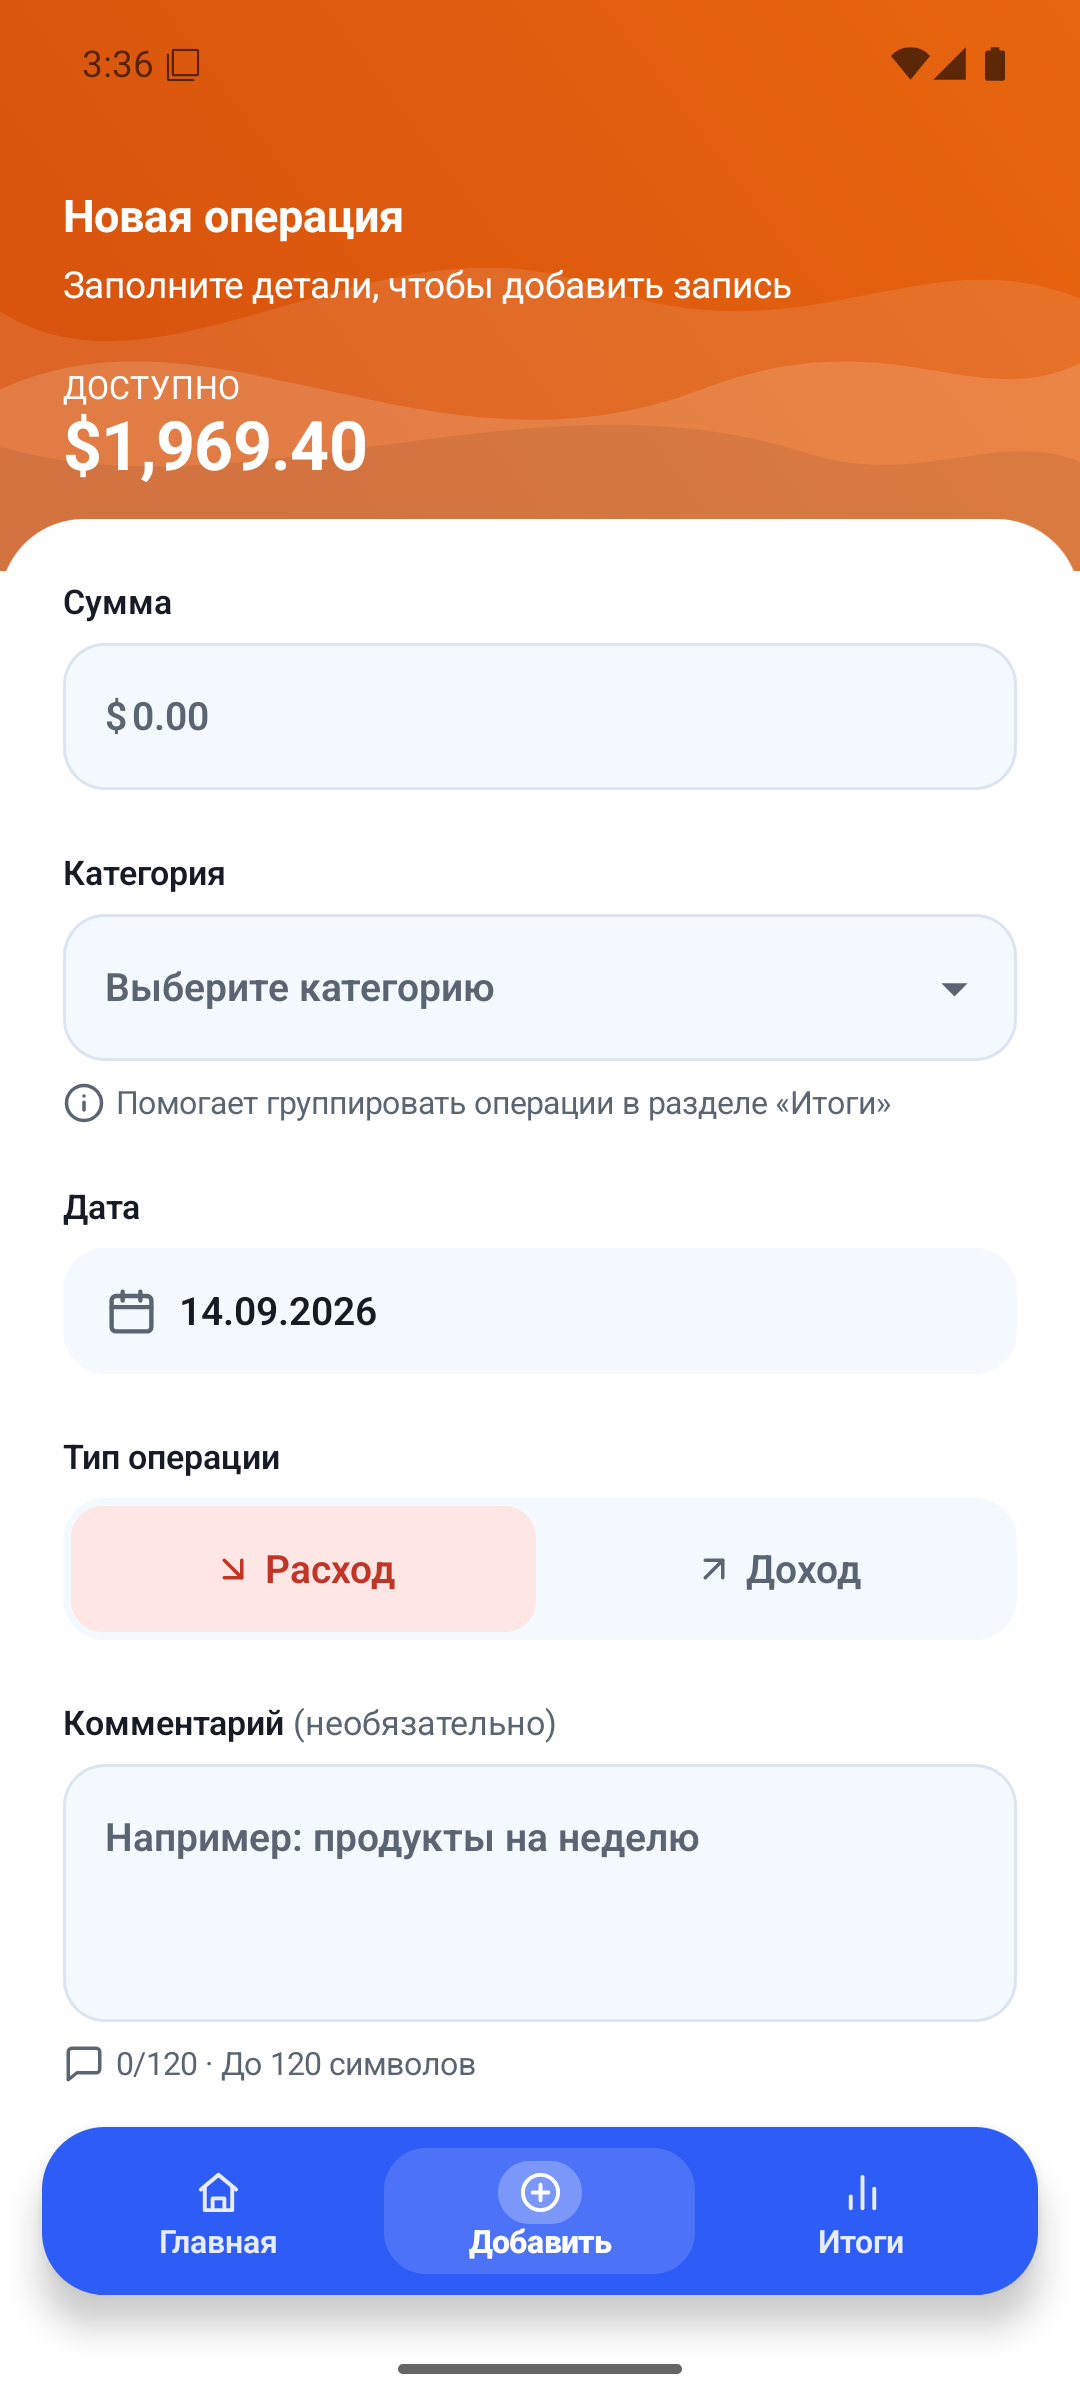
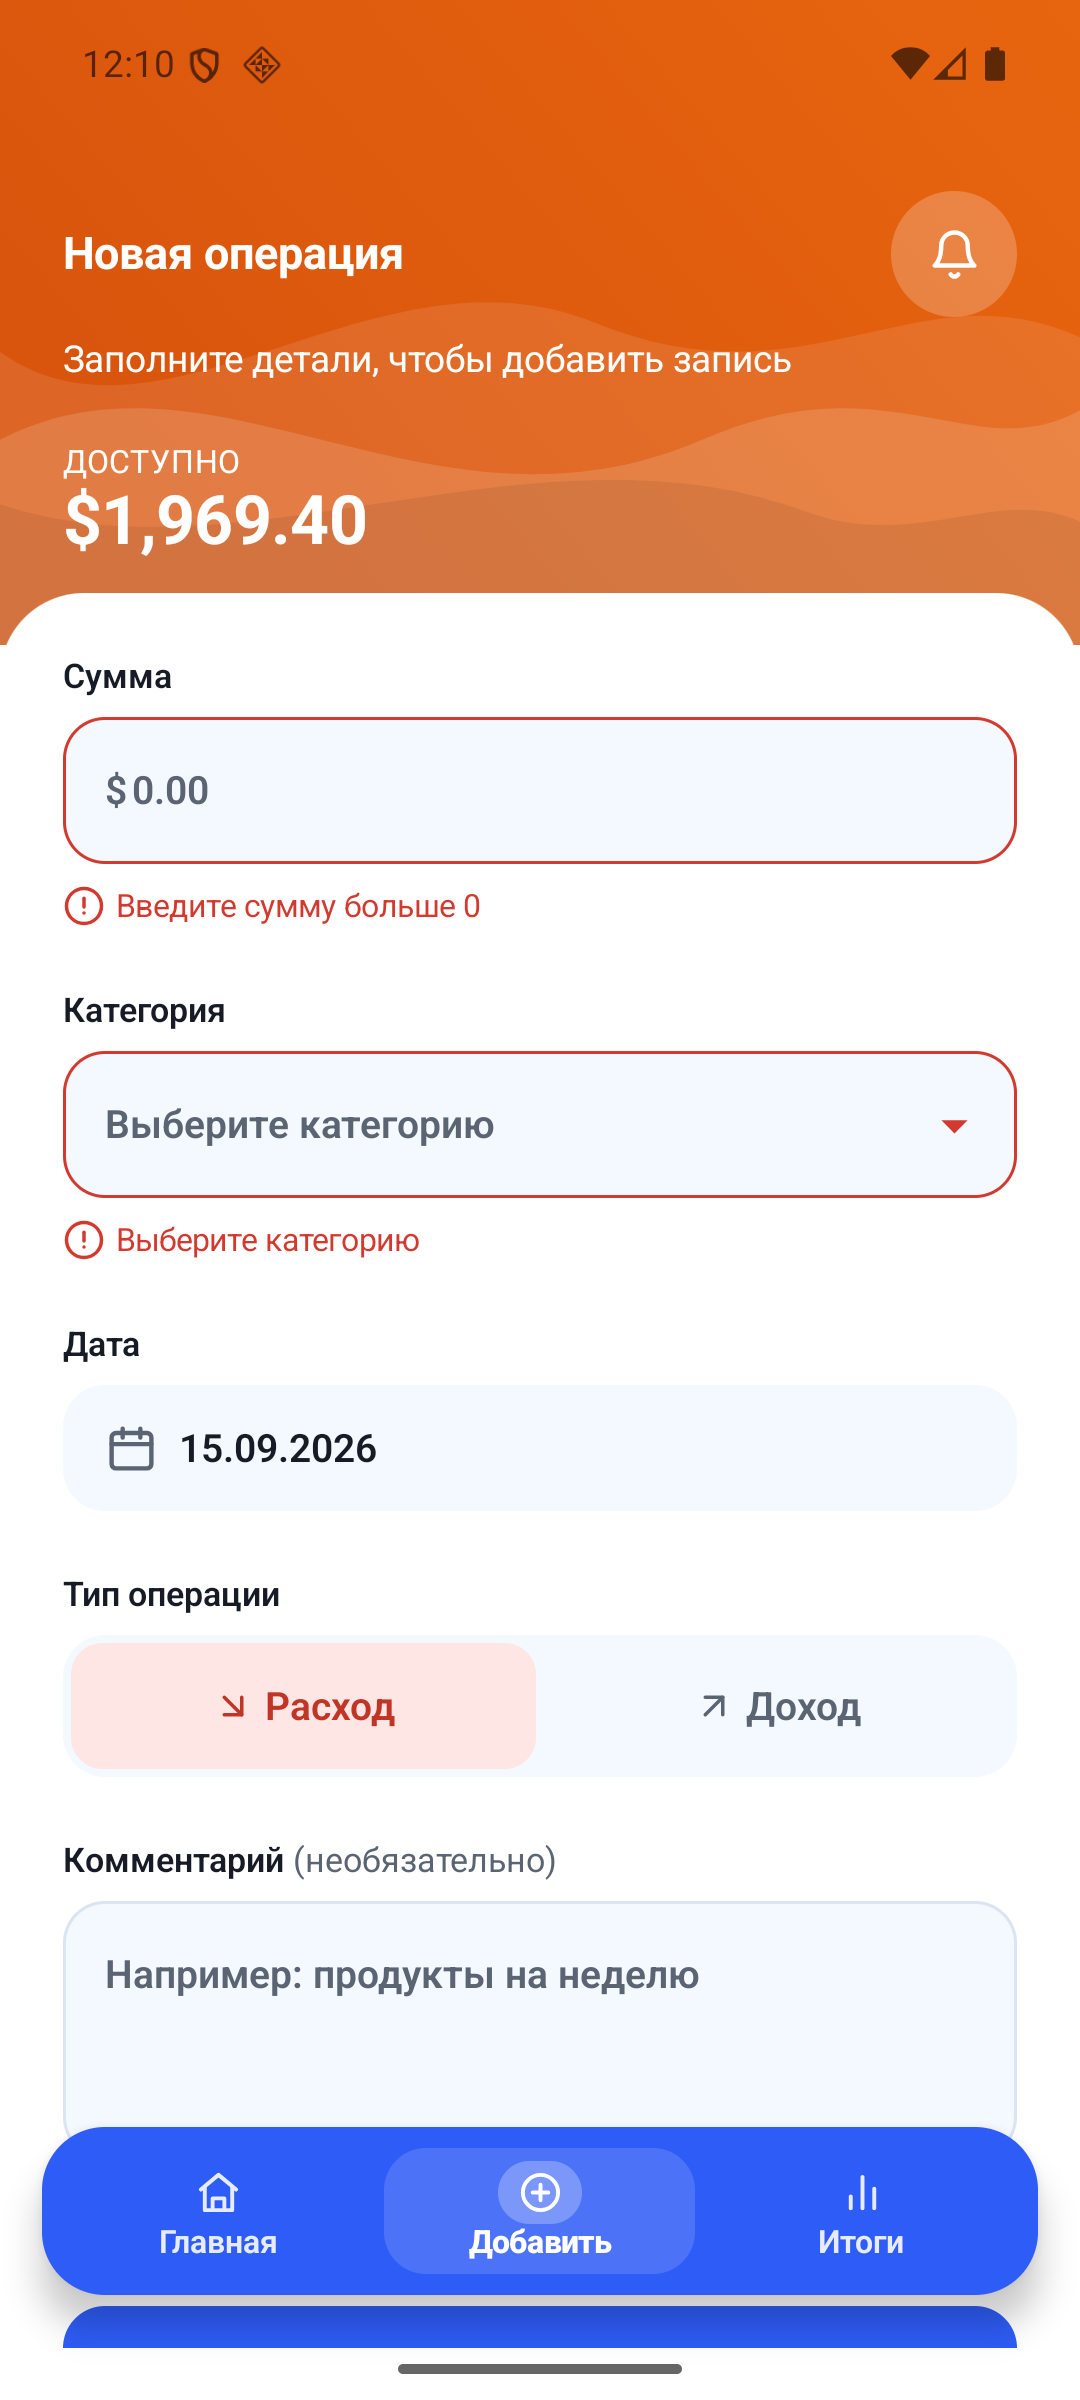
feat(ui): notifications button in the header
Кнопка-колокольчик из макета возвращена на все три экрана: круглая, 48dp,
на полупрозрачной белой подложке справа от заголовка. По нажатию открывается
тот же попап «Новых уведомлений нет», что был нарисован в макете.

Функциональности за ней пока нет — приложение офлайновое, без backend и push.

diff --git a/app/src/main/java/com/fintrack/app/ui/components/NotificationsButton.kt b/app/src/main/java/com/fintrack/app/ui/components/NotificationsButton.kt
@@ -1,0 +1,89 @@
+package com.fintrack.app.ui.components
+
+import androidx.compose.foundation.background
+import androidx.compose.foundation.clickable
+import androidx.compose.foundation.layout.Box
+import androidx.compose.foundation.layout.Column
+import androidx.compose.foundation.layout.padding
+import androidx.compose.foundation.layout.size
+import androidx.compose.foundation.layout.width
+import androidx.compose.material3.DropdownMenu
+import androidx.compose.material3.Icon
+import androidx.compose.material3.MaterialTheme
+import androidx.compose.material3.Text
+import androidx.compose.runtime.Composable
+import androidx.compose.runtime.getValue
+import androidx.compose.runtime.mutableStateOf
+import androidx.compose.runtime.remember
+import androidx.compose.runtime.setValue
+import androidx.compose.ui.Alignment
+import androidx.compose.ui.Modifier
+import androidx.compose.ui.draw.clip
+import androidx.compose.ui.graphics.Color
+import androidx.compose.ui.res.painterResource
+import androidx.compose.ui.res.stringResource
+import androidx.compose.ui.semantics.Role
+import androidx.compose.ui.unit.dp
+import com.fintrack.app.R
+import com.fintrack.app.ui.theme.FinTheme
+import com.fintrack.app.ui.theme.PillShape
+import com.fintrack.app.ui.theme.Spacing
+
+/**
+ * Круглая кнопка-колокольчик в шапке, как в макете.
+ *
+ * Функциональности за ней пока нет: приложение офлайновое, без backend и push,
+ * поэтому по нажатию открывается тот же попап «Новых уведомлений нет», что был
+ * нарисован в макете.
+ */
+@Composable
+fun NotificationsButton(modifier: Modifier = Modifier) {
+    var expanded by remember { mutableStateOf(false) }
+    val colors = FinTheme.colors
+
+    Box(modifier) {
+        Box(
+            modifier = Modifier
+                .size(Spacing.minTouch)
+                .clip(PillShape)
+                .background(Color.White.copy(alpha = 0.22f))
+                .clickable(
+                    role = Role.Button,
+                    onClickLabel = stringResource(R.string.notifications_open),
+                    onClick = { expanded = true },
+                ),
+            contentAlignment = Alignment.Center,
+        ) {
+            Icon(
+                painter = painterResource(R.drawable.ic_bell),
+                contentDescription = stringResource(R.string.notifications_open),
+                tint = colors.textInverse,
+                modifier = Modifier.size(20.dp),
+            )
+        }
+
+        DropdownMenu(
+            expanded = expanded,
+            onDismissRequest = { expanded = false },
+            containerColor = colors.surface,
+        ) {
+            Column(
+                modifier = Modifier
+                    .width(220.dp)
+                    .padding(Spacing.x3),
+            ) {
+                Text(
+                    text = stringResource(R.string.notifications_empty_title),
+                    style = MaterialTheme.typography.titleSmall,
+                    color = colors.textPrimary,
+                )
+                Text(
+                    text = stringResource(R.string.notifications_empty_subtitle),
+                    style = MaterialTheme.typography.bodySmall,
+                    color = colors.textSecondary,
+                    modifier = Modifier.padding(top = Spacing.x1),
+                )
+            }
+        }
+    }
+}

diff --git a/app/src/main/java/com/fintrack/app/ui/screens/add/AddTransactionScreen.kt b/app/src/main/java/com/fintrack/app/ui/screens/add/AddTransactionScreen.kt
@@ -55,6 +55,7 @@ import com.fintrack.app.domain.model.TransactionType
 import com.fintrack.app.domain.usecase.ValidateTransactionInput
 import com.fintrack.app.ui.components.CategoryIcons
 import com.fintrack.app.ui.components.FinTrackScaffold
+import com.fintrack.app.ui.components.NotificationsButton
 import com.fintrack.app.ui.components.PrimaryButton
 import com.fintrack.app.ui.navigation.LocalContentBottomPadding
 import com.fintrack.app.ui.theme.BalanceLabelStyle
@@ -78,11 +79,19 @@ fun AddTransactionScreen(
 
     FinTrackScaffold(
         header = {
-            Text(
-                text = stringResource(R.string.add_title),
-                style = MaterialTheme.typography.titleLarge,
-                color = colors.textInverse,
-            )
+            Row(
+                modifier = Modifier.fillMaxWidth(),
+                verticalAlignment = Alignment.CenterVertically,
+                horizontalArrangement = Arrangement.SpaceBetween,
+            ) {
+                Text(
+                    text = stringResource(R.string.add_title),
+                    style = MaterialTheme.typography.titleLarge,
+                    color = colors.textInverse,
+                    modifier = Modifier.weight(1f, fill = false),
+                )
+                NotificationsButton()
+            }
             Text(
                 text = stringResource(R.string.add_subtitle),
                 style = MaterialTheme.typography.bodyMedium,

diff --git a/app/src/main/java/com/fintrack/app/ui/screens/summary/SummaryScreen.kt b/app/src/main/java/com/fintrack/app/ui/screens/summary/SummaryScreen.kt
@@ -52,6 +52,7 @@ import com.fintrack.app.domain.model.TransactionType
 import com.fintrack.app.ui.components.CategoryIcons
 import com.fintrack.app.ui.components.EmptyState
 import com.fintrack.app.ui.components.FinTrackScaffold
+import com.fintrack.app.ui.components.NotificationsButton
 import com.fintrack.app.ui.components.SectionHeader
 import com.fintrack.app.ui.components.StatCard
 import com.fintrack.app.ui.components.StatCardKind
@@ -74,11 +75,19 @@ fun SummaryScreen(
 
     FinTrackScaffold(
         header = {
-            Text(
-                text = stringResource(R.string.summary_title),
-                style = MaterialTheme.typography.titleLarge,
-                color = colors.textInverse,
-            )
+            Row(
+                modifier = Modifier.fillMaxWidth(),
+                verticalAlignment = Alignment.CenterVertically,
+                horizontalArrangement = Arrangement.SpaceBetween,
+            ) {
+                Text(
+                    text = stringResource(R.string.summary_title),
+                    style = MaterialTheme.typography.titleLarge,
+                    color = colors.textInverse,
+                    modifier = Modifier.weight(1f, fill = false),
+                )
+                NotificationsButton()
+            }
             Text(
                 text = stringResource(R.string.summary_subtitle),
                 style = MaterialTheme.typography.bodyMedium,

diff --git a/app/src/main/java/com/fintrack/app/ui/screens/home/HomeScreen.kt b/app/src/main/java/com/fintrack/app/ui/screens/home/HomeScreen.kt
@@ -39,6 +39,7 @@ import com.fintrack.app.di.AppViewModelFactory
 import com.fintrack.app.domain.model.TransactionType
 import com.fintrack.app.ui.components.EmptyState
 import com.fintrack.app.ui.components.FinTrackScaffold
+import com.fintrack.app.ui.components.NotificationsButton
 import com.fintrack.app.ui.components.SectionHeader
 import com.fintrack.app.ui.components.StatCard
 import com.fintrack.app.ui.components.StatCardKind
@@ -73,11 +74,19 @@ private fun HomeContent(
 
     FinTrackScaffold(
         header = {
-            Text(
-                text = stringResource(R.string.home_title),
-                style = MaterialTheme.typography.titleLarge,
-                color = colors.textInverse,
-            )
+            Row(
+                modifier = Modifier.fillMaxWidth(),
+                verticalAlignment = Alignment.CenterVertically,
+                horizontalArrangement = Arrangement.SpaceBetween,
+            ) {
+                Text(
+                    text = stringResource(R.string.home_title),
+                    style = MaterialTheme.typography.titleLarge,
+                    color = colors.textInverse,
+                    modifier = Modifier.weight(1f, fill = false),
+                )
+                NotificationsButton()
+            }
             Text(
                 text = stringResource(R.string.home_greeting),
                 style = MaterialTheme.typography.bodyMedium,
